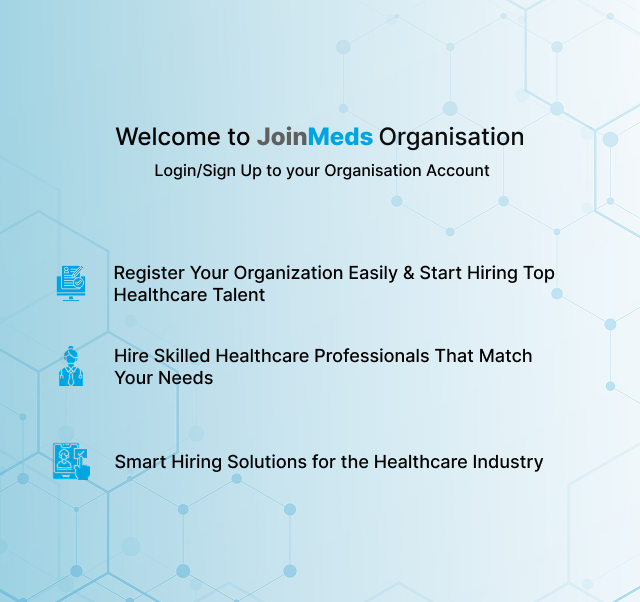
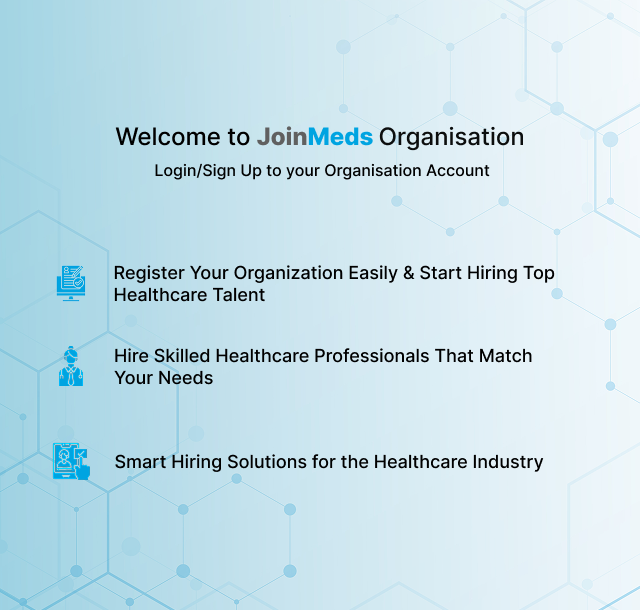
api integration

diff --git a/src/pages/login/components/Login.jsx b/src/pages/login/components/Login.jsx
@@ -33,7 +33,7 @@ function Login() {
         <img
           src={bannerPattern}
           alt="Login Banner"
-          className="w-full h-[750px] object-cover"
+          className="w-full  object-cover"
         />
       </div>
 
